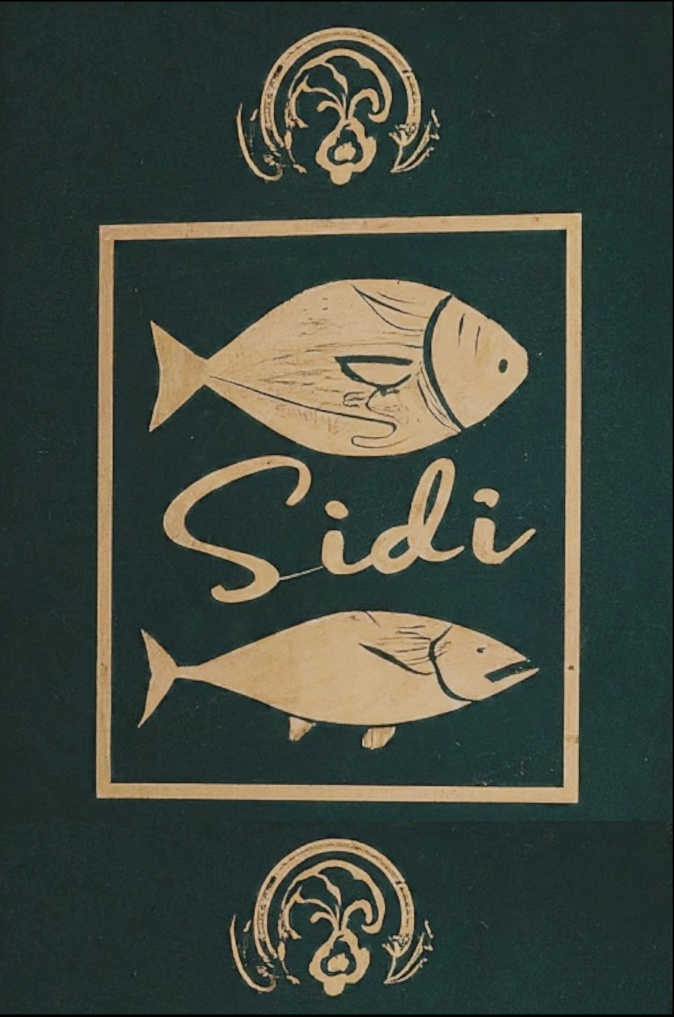
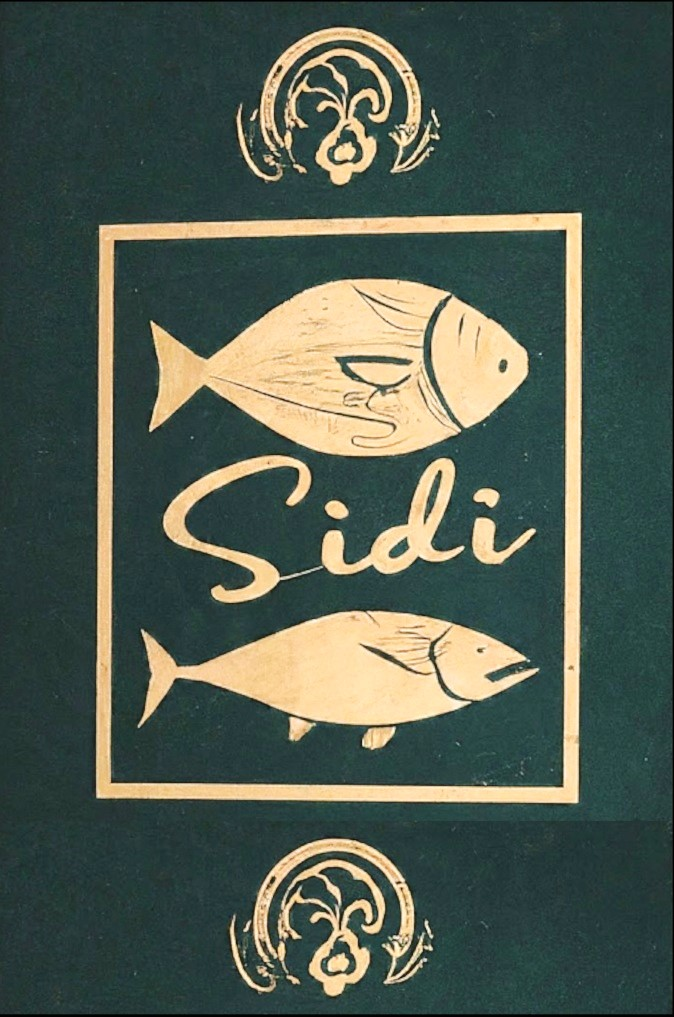
visual fixes

Changed region(s): [[0.1246, 0.1829, 0.8724, 0.7925], [0.3427, 0.0, 0.6543, 0.1829], [0.3427, 0.823, 0.6543, 0.9754]]

diff --git a/CSS/Menu.css b/CSS/Menu.css
@@ -7,9 +7,9 @@
     list-style-type: none;
     --blackcolor--:#000000;
     --Maincolor--: #5c412e;
-    --Secondarycol--:#bea473;
+    --Secondarycol--:#fee3b2;
     --white--:#ffffff;
-    --accent--:#203937;
+    --accent--:#253835;
     --accent2--:#4e6e6f ;
 }
 body {
@@ -27,7 +27,7 @@ body {
     height: auto;
 }
 .Background {
-    background-image: linear-gradient(rgba(0,0,0,.4), rgba(0,0,0,.5)),url(../Images/back.jpg);
+    background-image: linear-gradient(rgba(0,0,0,.2), rgba(0,0,0,0)),url(../Images/back.jpg);
     background-repeat: no-repeat, repeat;
     padding: 15px;
     position: relative;
@@ -39,7 +39,7 @@ body {
 }
 .Background-2{
     /* background-image: radial-gradient(circle, var(--Secondarycol--) 20%, var(--Maincolor--) 120%); */
-    background-image: linear-gradient(rgba(0,0,0,1), rgba(0,0,0,1)),url(../Images/menu-back.jpg);
+    background-image: linear-gradient(rgba(0,0,0,.1), rgba(0,0,0,.9)),url(../Images/menu-back.jpg);
     background-repeat: no-repeat;
     padding: 15px;
     width: 100%;
@@ -68,7 +68,7 @@ background: var(--Secondarycol--);
 }
 /* Handle on hover */
 ::-webkit-scrollbar-thumb:hover {
-background: var(--blackcolor--); 
+background: var(--accent--); 
 }
 
 /* links */
@@ -126,15 +126,15 @@ a img .account-button{
     transition: all 0.3s ease 0s;
 }
 .dropbtn {
-    background-color: var(--accent--);
-    color: var(--Secondarycol--);
+    background-color: var(--white--);
+    color: var(--accent--);
     border: none;
     cursor: pointer;
 }
   
 .dropbtn:hover, .dropbtn:focus {
-background-color: var(--white--);
-color: var(--accent--);
+background-color: var(--accent--);
+color: var(--white--);
 }
 
 .dropdown {
@@ -466,7 +466,7 @@ footer{
     padding-bottom: 0px;
     padding-right: 20px;
     padding-left: 20px;
-    background-color: var(--blackcolor--);
+    background-color: var(--accent--);
     max-width: 100%;
     transition: background 0.5s, border 0.5s, border-radius 0.5s, box-shadow 0.5s;  
 }
@@ -593,7 +593,7 @@ footer{
 }
 
 .footerBottom{
-    background-color: var(--blackcolor--);
+    background-color: var(--accent--);
     padding-top: 20px;
     padding-bottom: 40px;
     transition: all 0.5s, background 0.5s, border 0.5s, border-radius 0.5s, box-shadow 0.5s;
@@ -604,12 +604,12 @@ footer{
     text-align: center;
 }
 .SocialIcons{
-    background-color: var(--blackcolor--);
+    background-color: var(--accent--);
     display: flex;
     justify-content: center;
 }
 .SocialIcons a{
-    background-color: var(--blackcolor--); 
+    background-color: var(--accent--); 
     text-decoration: none;
     padding: 10px;
     background-color: var(--Secondarycol--);
@@ -619,13 +619,13 @@ footer{
 }
 .SocialIcons a i{
     font-size: 2em ;
-    color: black;
+    color: var(--accent--);
     opacity: 0.9;
     transition: all 0.5s ease 0s;
 }
 /* icon hover effect */
 .SocialIcons a:hover{
-    background-color: var(--blackcolor--);
+    background-color: var(--accent--);
 }
 .SocialIcons a:hover i{
     color: var(--Secondarycol--);

diff --git a/CSS/login.css b/CSS/login.css
@@ -5,9 +5,9 @@
     font-family: 'Trebuchet MS', 'Lucida Sans Unicode', 'Lucida Grande', 'Lucida Sans', Arial, sans-serif;
     --blackcolor--:#000000;
     --Maincolor--: #553a26;
-    --Secondarycol--:#e1be7e;
+    --Secondarycol--:#fee3b2;
     --white--:#ffffff;
-    --accent--:#203937;
+    --accent--:#253835;
     --accent2--:#4e6e6f ;
 }
 
